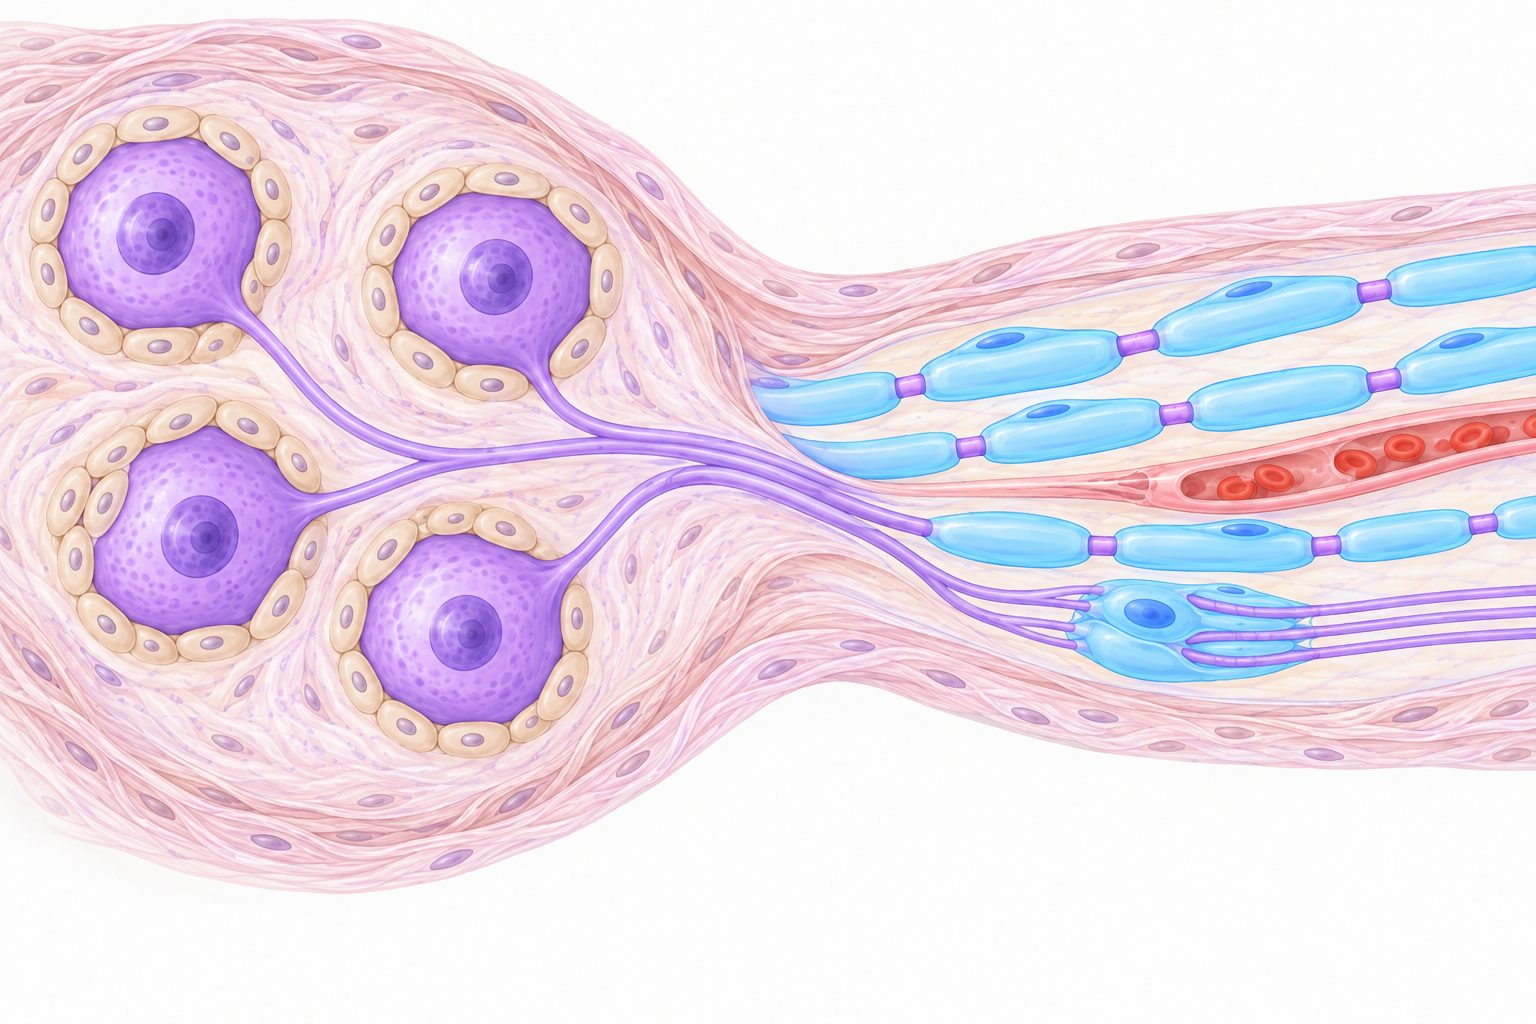
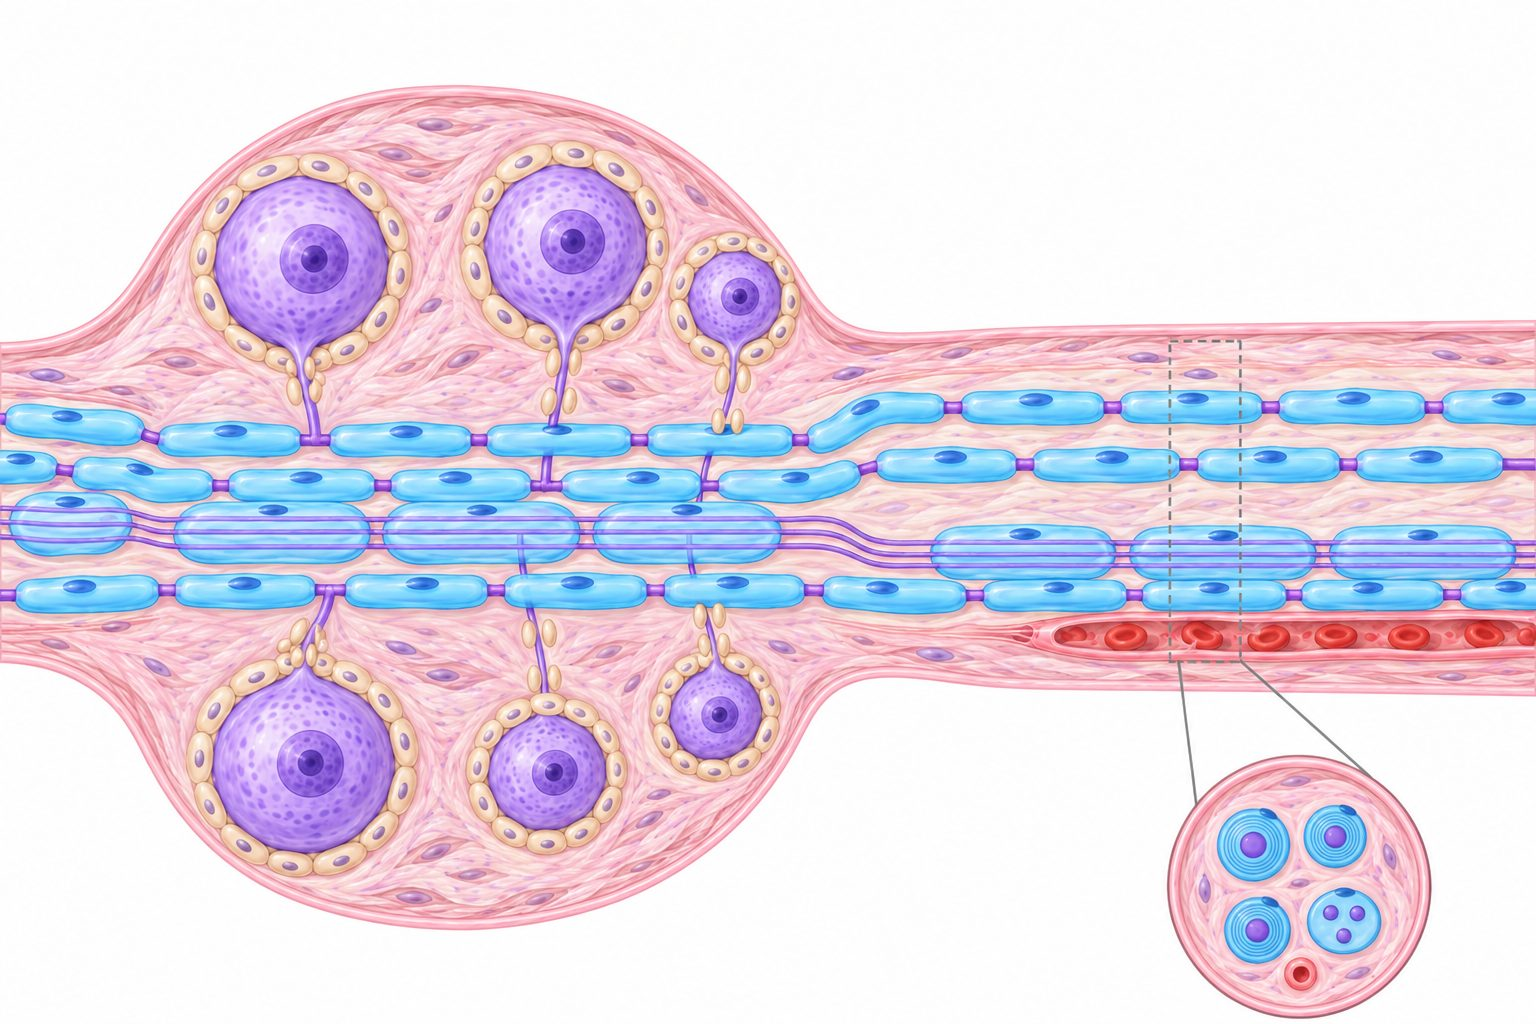
Glía del SNP: esquema nuevo, zonas recalibradas (axón y nodos más fáciles de tocar) y rótulo donde se toca

diff --git a/js/circuito.js b/js/circuito.js
@@ -265,7 +265,7 @@ function iniciar(raiz) {
         if (r.red) { aviso = r.feedback; pintar(); return; }
         if (r.correcto) {
             e.ok[k] = true;
-            e.pos[k] = r.punto || xy;
+            e.pos[k] = etiquetas ? xy : (r.punto || xy);   // con etiquetas, el rótulo queda donde se tocó
             if (r.trazo) { e.trz[k] = r.trazo; nueva = k; }
             e.exp[k] = { exp: r.exp || '', zona: r.zona || '', e: (e.mal[k] || []).length };
             marca = null;
